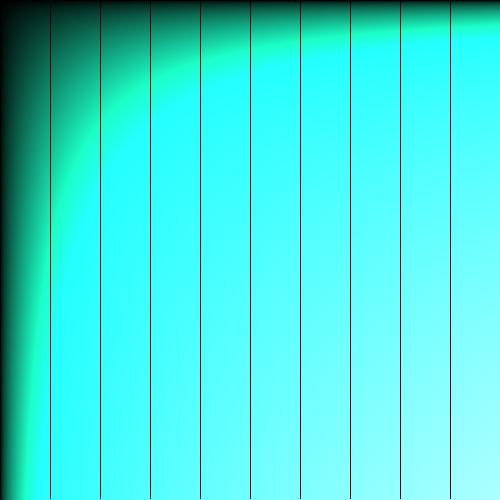
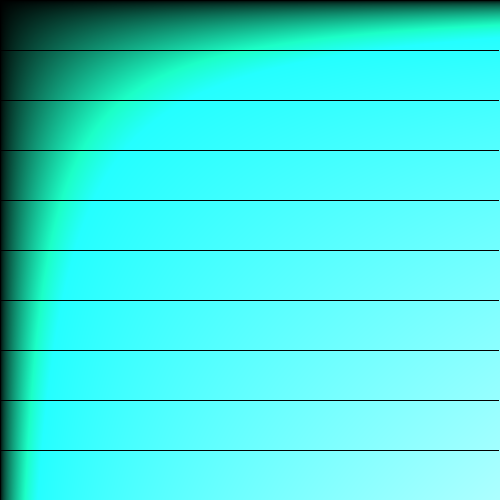
fix lines direction

diff --git a/examples/src/joy_division.rs b/examples/src/joy_division.rs
@@ -48,10 +48,10 @@ fn main() {
     //     .collect();
 
     let mut lines: Vec<Line> = Vec::new();
-    for x in horiz.iter() {
+    for i in horiz.iter() {
         let mut line = Vec::new();
-        for y in vert.iter() {
-            line.push(Point2::new(*x, *y));
+        for j in vert.iter() {
+            line.push(Point2::new(*j, *i));
         }
         lines.push(Line::new(line))
     }
